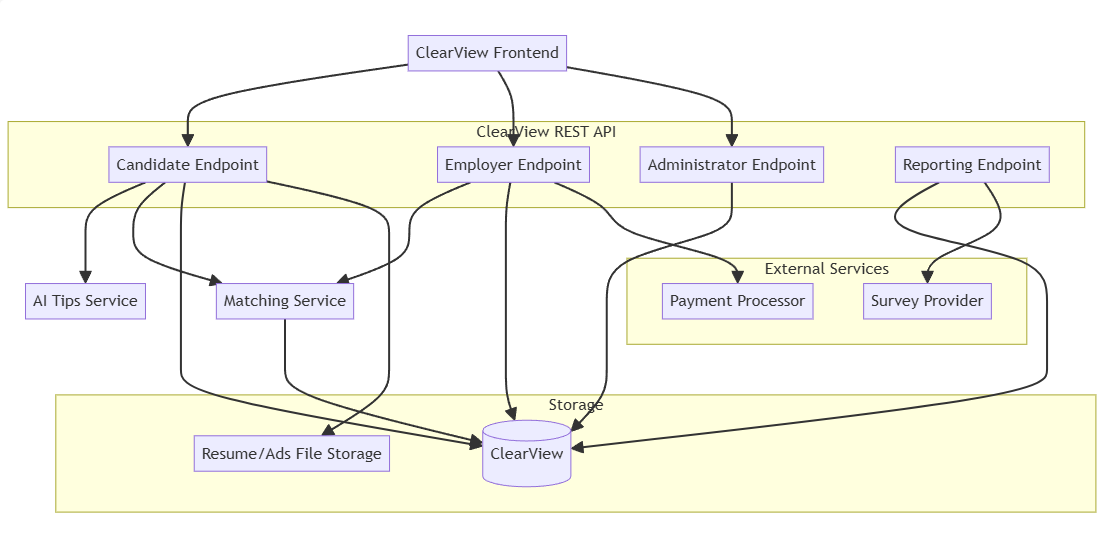
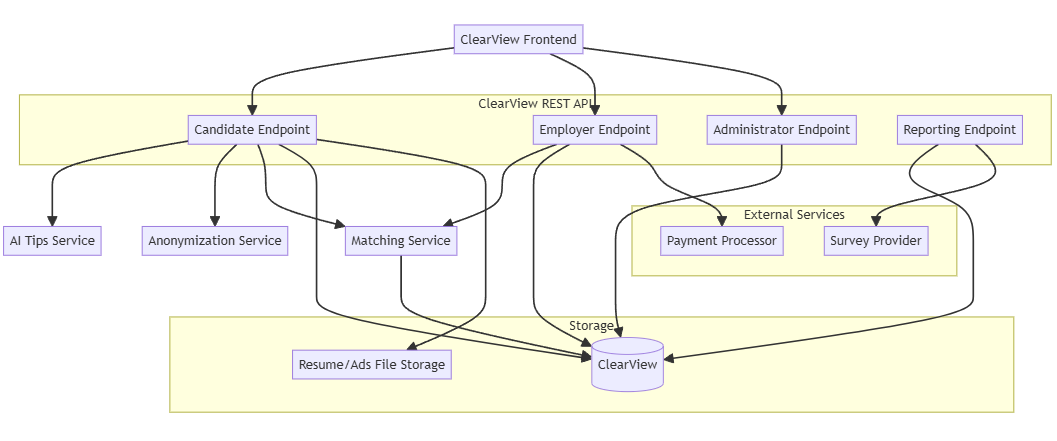
polishing

diff --git a/README.md b/README.md
@@ -4,14 +4,25 @@
 
 ## Equi Hire Architects Team
 
-- Uros Milivojevic
-- Marjan Slavkovski
-- Rastko Djordjevic
-- Goran Zoranovic
+We are a team of software engineers from Microsoft Serbia very passionate about software architecture. We have been practicing architectural katas inside our team inspired by books and videos from Neal Ford and Mark Richards. This time we decided to challenge ourselves and participate in official event.
+
+- [Uros Milivojevic](https://www.linkedin.com/in/urosmilivojevic/)
+- [Marjan Slavkovski](https://www.linkedin.com/in/marjan-s/)
+- [Rastko Djordjevic](https://www.linkedin.com/in/rastko-djordjevic/)
+- [Goran Zoranovic](https://www.linkedin.com/in/goranzoranovic/)
 
 ## Table of contents
-
-TODO:
+- [Company overview](#company-overview)
+- [Requirements](#requirements)
+- [Identifying architecture characteristics](#identifying-architecture-characteristics)
+- [Domain analysis](#domain-analysis)
+- [Architecture](#architecture)
+- [AI Backend](#ai-backend)
+- [Integration](#integration)
+- [REST API](#rest-api)
+- [Storage](#storage)
+- [External services](#external-services)
+- [Additional considerations](#additional-considerations)
 
 ## Company overview
 
@@ -88,6 +99,8 @@ We landed on next domains:
 
 - Reporting Endpoint - REST API component covering methods needed for Monthly reporting.
 
+- Anonymization Service - Service which is creating anonymized version of resume.
+
 - AI Tips Service - Service providing tips for the Candidate resume.
 
 - Matching Service - Service making actual matches based on skills extracted from job ads and resumes.
@@ -102,7 +115,7 @@ files.
 
 ### Architecture Decision Records
 
-Here is the list of all ADRs we made during the process to came up with architecture we designed. Full ADRs can be found through links in the table.
+Here is the condensed list of all ADRs we made during the process to came up with architecture we designed. Full ADRs can be found through links in the table.
 
 
 |ADR #| 	Title| 	Why |	Trade-offs 	| Link |
@@ -114,7 +127,7 @@ Here is the list of all ADRs we made during the process to came up with architec
 |05 |	One relational database and one file-storage DB |	Simplifies maintenance by reducing the number of databases, combining multiple domains into one relational DB.| Resumes need separate file storage.	May compromise modularity and separation of concerns between domains, leading to potential scaling or data management challenges later. However big scalability is not expected so we feel comfortable in making this decision.	|<a href="adr/adr05.md">ADR05</a>|
 |06 |	Split database by schema to decouple domains and improve security|	Improves fault-tolerance and security by separating candidate, employer, matching, and analytics data into schemas. |	More complex database management, requiring careful handling of schema-specific optimizations and inter-schema queries. |	<a href="adr/adr06.md">ADR06</a>|
 |07 |	Analytics as part of regular database| 	Simplifies architecture by embedding analytics within the regular database, avoiding real-time analytics complexity. |	May limit future analytics capabilities if real-time or advanced analytics are needed, and could add extra load to the operational database. However, it should be fairly easy to move this data to separate database if needed.|	<a href="adr/adr07.md">ADR07</a>|
-|08 |	Split AI tips and matching services |	Decouples AI tips and matching services, making the system simpler and easier to scale independently.  |	Requires coordination between services and careful orchestration of dependencies if they need to interact, adding complexity in integration. On the other hand we improve separation of concerns, maintaining and testability.|	<a href="adr/adr08.md">ADR08</a>|
+|08 |	Split Anonymization, AI tips and matching services |	Decouples Anonymization, AI tips and matching services, making the system simpler and easier to scale independently.  |	Requires coordination between services and careful orchestration of dependencies if they need to interact, adding complexity in integration. On the other hand we improve separation of concerns, maintaining and testability.|	<a href="adr/adr08.md">ADR08</a>|
 |09 	|Matching once per Job Ad deadline 	|Matches candidates once per job ad deadline, aligning with employer expectations and simplifying processing pipelines. |	Delays real-time candidate matching and feedback loops, making the system less responsive to changes in candidate or job availability during the job lifecycle. However, it dramatically reduces costs of processing. If needed, processing can be invoked through Matching API on demand.	|<a href="adr/adr09.md">ADR09</a>|
 |10 |	Configurable top N candidates for employers |	Allows employers to see the top N candidates, making "N" configurable, ensuring scalability and reducing DB overload. 	|Complexity in configuring "N" dynamically across jobs; potential risk if "N" is set too high or too low for specific job listings, affecting employer satisfaction.|<a href="adr/adr10.md">ADR10</a>|
 |11 |	Use lightweight authentication (OAuth2, Shiro) |	Implements simple and lightweight authentication to reduce complexity while securing access to services. |	May require upgrades to a more robust solution if security or user management needs increase, adding migration overhead later. 	|<a href="adr/adr11.md">ADR11</a>|
@@ -161,7 +174,47 @@ Sequence diagram:
 
 |ADR #| 	Title| 	Why |	Trade-offs 	| Link |
 |------|----------|-----|--------------|------|
-|08 |	Split AI tips and matching services |	Decouples AI tips and matching services, making the system simpler and easier to scale independently.  |	Requires coordination between services and careful orchestration of dependencies if they need to interact, adding complexity in integration. On the other hand we improve separation of concerns, maintaining and testability.|	<a href="adr/adr08.md">ADR08</a>|
+|08 |	Split Anonymization, AI tips and matching services |	Decouples Anonymization, AI tips and matching services, making the system simpler and easier to scale independently.  |	Requires coordination between services and careful orchestration of dependencies if they need to interact, adding complexity in integration. On the other hand we improve separation of concerns, maintaining and testability.|	<a href="adr/adr08.md">ADR08</a>|
+
+### Anonymization Service
+
+One of the core features of ClearView is its ability to **reduce bias** in the hiring process through the **anonymization of candidate resumes**. This feature ensures that employers focus on the skills and qualifications of candidates rather than on potentially bias-inducing personal information such as names, contact details, gender, or other identifiable attributes. The **Anonymization Service**, powered by **Large Language Models (LLMs)**, is a critical component in achieving this goal, enabling a fairer and more inclusive recruitment process.
+
+#### How the Anonymization Process Works
+
+1. **Candidate Submission**  
+   When a candidate submits their resume to ClearView, the resume typically contains personal and professional information, such as their full name, contact details, education, and work experience. This raw resume, while informative, carries the risk of introducing unconscious bias into the hiring process. 
+
+2. **Anonymization Service Powered by LLMs**  
+   Upon receiving the resume, ClearView’s **Anonymization Service** is automatically triggered. The service, utilizing **Large Language Models (LLMs)**, intelligently analyzes the resume to detect and anonymize sensitive personal information. These advanced models allow the system to:
+   - Identify personal identifiers such as **names**, **contact details**, **gender**, **date of birth**, and **photographs**, even if presented in varied formats or contexts.
+   - Maintain the **semantic integrity** of the resume, ensuring that anonymized resumes still convey the full scope of a candidate’s professional experience and skills.
+   
+   The LLM’s ability to understand context ensures that the anonymization process is thorough and adaptable, handling diverse resume formats and terminology with ease. While the LLM removes personal details, it preserves critical information such as **work experience**, **skills**, **education**, and **certifications**, ensuring that the anonymized resume remains informative.
+
+3. **Compelling Anonymized Resume Creation**  
+   The use of LLMs not only allows for effective anonymization but also enables the creation of a **compelling, professionally formatted anonymized resume**. The LLM enhances the presentation of the anonymized content by:
+   - **Reformatting** the candidate’s experience and skills to emphasize qualifications that are most relevant to the job posting.
+   - Ensuring a **consistent and polished presentation** across all anonymized resumes, so employers receive standardized resumes that focus solely on the candidates' qualifications.
+   - Adapting the text to maintain the **flow and coherence** of the resume, even after personal information has been removed, ensuring that it is easy for employers to read and evaluate.
+
+4. **Integration with Matching Data**  
+   After the anonymization process is complete, the resume is presented to employers alongside the **matching data** generated by ClearView’s skill-matching service. This includes a match score based on the candidate’s qualifications and how well they align with the job’s requirements. Employers, therefore, see only anonymized resumes and objective data, enabling them to make informed decisions without bias.
+
+#### Importance of LLM-Based Anonymization in Reducing Bias
+
+Using **LLM-powered anonymization** significantly enhances ClearView’s ability to reduce bias by:
+- **Contextual Understanding**: LLMs are capable of understanding the context in which personal details are presented, ensuring that all identifiable information is accurately removed while retaining important professional details.
+- **Eliminating Bias**: By stripping away personal identifiers, ClearView ensures that employers focus on **what matters most**—the candidate’s skills, qualifications, and experience—without being influenced by irrelevant details like name, gender, or ethnicity.
+- **Consistency Across Resumes**: LLMs enable the creation of **standardized anonymized resumes**, giving all candidates an equal opportunity to present themselves in the best possible light without the risk of bias creeping into the review process.
+
+<img src="diagrams/anonimization_service_process.png">
+
+
+#### Conclusion
+
+In ClearView, the **Anonymization Service**, powered by **LLMs**, plays a pivotal role in ensuring **fair and unbiased hiring practices**. By utilizing the capabilities of Large Language Models to intelligently anonymize resumes and generate a consistent, professional presentation, ClearView enables employers to make objective, data-driven decisions. The combination of LLM-powered anonymization and skill-matching data ensures that every candidate is evaluated based on their qualifications alone, fostering a more diverse and inclusive recruitment process.
+
 
 ### Matching service
 
@@ -451,6 +504,56 @@ Response: (200 OK)
   }
 ```
 
+Anonymized Resume Management
+Upload Anonimized Resume
+- POST /api/candidates/anonymized
+```
+Headers:
+Authorization: Bearer {token}
+Content-Type: multipart/form-data
+Request Body:
+- file: (binary)
+Response: (201 Created)
+```
+``` json
+  {
+    "id": "string",
+    "fileName": "string",
+    "uploadDate": "string (ISO 8601 date)",
+    "fileSize": "number"
+  }
+```
+
+Get Anonimized Resume
+- GET /api/candidates/anonimized
+```
+Headers:
+Authorization: Bearer {token}
+Response: (200 OK)
+```
+``` json
+  {
+    "id": "string",
+    "fileName": "string",
+    "uploadDate": "string (ISO 8601 date)",
+    "fileSize": "number",
+    "downloadUrl": "string"
+  }
+```
+
+Delete Anonimized Resume
+- DELETE /api/candidates/anonymized
+```
+Headers:
+Authorization: Bearer {token}
+Response: (200 OK)
+```
+``` json
+  {
+    "message": "Resume deleted successfully"
+  }
+```
+
 AI Tips
 Get Resume Tips
 - GET /api/candidates/resume/tips
@@ -646,6 +749,7 @@ POST /employer: Register a new employer and autofill company details.
 GET /employer/{id}: Retrieve employer details, including job ads and payment history.
 PUT /employer/{id}: Update employer information.
 DELETE /employer/{id}: Deactivate employer profile.
+GET /employer/{employer_id}/{candidate_id}/anonimized : Download anonymized candidate resume.
 GET /employer/{employer_id}/candidates/{candidate_id}/resume: Download unlocked candidate resume.
 ```
 - Job Ads:
@@ -856,9 +960,39 @@ This would allow us to keep related data in single schema and help us in future 
 |------|----------|-----|--------------|-----|	
 |06 |	Split database by schema to decouple domains and improve security|	Improves fault-tolerance and security by separating candidate, employer, matching, and analytics data into schemas. |	More complex database management, requiring careful handling of schema-specific optimizations and inter-schema queries. |	<a href="adr/adr06.md">ADR06</a>|
 
-### File Storage TODO!
+### File Storage
+
+ClearView is designed to reduce bias in the job application process by anonymizing resumes and matching candidates to job advertisements based on skills. One of the critical components of this system is the **file storage** mechanism, which is responsible for securely managing and storing candidate resumes and other file-based data.
+
+#### Why File Storage is Essential
+
+1. **Handling Unstructured Data**  
+   Resumes are a form of **unstructured data** that can come in a variety of formats, including PDFs, Word documents, and images. These files are an essential part of the candidate’s profile, as they contain detailed information about work experience, education, and skills. Storing and managing these files effectively is crucial for ensuring that ClearView can access and process candidate information accurately.
+
+2. **Resume Anonymization**  
+   A key feature of ClearView is the **anonymization** of resumes to eliminate potential bias in the hiring process. To achieve this, the system must be able to securely store both the original and anonymized versions of candidate resumes. File storage allows the system to manage different versions of these documents efficiently, ensuring that sensitive information is protected while providing anonymized versions for employer reviews.
+
+3. **Scalability and Efficiency**  
+   As the number of candidates and employers using ClearView grows, so does the volume of resumes and file-based data. A robust file storage system ensures that ClearView can **scale** to handle large amounts of data without performance degradation. Modern file storage solutions, such as **cloud-based storage** (e.g., AWS S3), offer flexible scalability, allowing ClearView to manage increasing data volumes while optimizing costs.
+
+4. **Security and Compliance**  
+   File storage is critical for maintaining the **security** of candidate information. Resumes often contain sensitive personal data, such as names, contact information, and employment history. A secure file storage system must provide encryption both at rest and in transit, ensuring that data is protected from unauthorized access. Additionally, file storage helps ClearView meet **compliance requirements** related to data protection laws, such as GDPR, by managing access controls and data retention policies.
+
+5. **Cost-Effectiveness**  
+   Managing file storage in a cost-effective manner is important to keep the system sustainable as it grows. Cloud-based storage solutions allow ClearView to pay for only the storage capacity it uses, offering **cost-efficiency** while ensuring high availability and durability of the data. By leveraging these storage solutions, ClearView minimizes the need for expensive on-premise infrastructure, reducing operational overhead.
+
+#### Conclusion
+
+In ClearView, file storage plays a pivotal role in securely managing candidate resumes, enabling resume anonymization, and ensuring scalability. It supports the system’s core mission of reducing bias in hiring by handling sensitive data efficiently and securely. As the system continues to evolve, having a robust and flexible file storage solution ensures that ClearView can grow while maintaining the integrity, security, and availability of its most important data: the candidate resumes.
+
+|ADR #| 	Title| 	Why |	Trade-offs 	| Link |
+|------|----------|-----|--------------|-----|
+|05 |	One relational database and one file-storage DB |	Simplifies maintenance by reducing the number of databases, combining multiple domains into one relational DB.| Resumes need separate file storage.	May compromise modularity and separation of concerns between domains, leading to potential scaling or data management challenges later. However big scalability is not expected so we feel comfortable in making this decision.	|<a href="adr/adr05.md">ADR05</a>|
 
 ## External services
+
+We have chosen to use **external services** for both **payment processing** and **survey management** in ClearView to reduce complexity and operational overhead. These services are well-established, secure, and scalable, allowing us to integrate reliable, out-of-the-box solutions that meet our current needs. By outsourcing these functionalities to trusted providers, we avoid the costs and time associated with building and maintaining custom systems. This decision allows ClearView to focus on its core functionalities, while ensuring that payments and surveys are handled efficiently and securely by specialized services.
+
 
 |ADR #| 	Title| 	Why |	Trade-offs 	| Link |
 |------|----------|-----|--------------|-----|		
@@ -866,8 +1000,15 @@ This would allow us to keep related data in single schema and help us in future 
 
 ## Additional considerations
 ### Evolvability
+
+While there is potential to add AI-driven features in the future, the exact nature and scope of these features are currently unclear, making it difficult to design a fully adaptable plugin system at this stage. However, by splitting concerns and decoupling core services—such as AI tips, anonymization, and matching—we are laying the groundwork for easier integration of new features when the need arises. This modular approach ensures that we can evolve and extend the system with minimal disruption, allowing us to introduce advanced capabilities as requirements become clearer.
+
 ### Scalability
+
+While ClearView does not expect to handle more than **5,000 active candidates** simultaneously (assumption confirmed by subject expert) in the near future, the current architecture is designed to be **scalable** enough to accommodate larger volumes of requests if necessary. By **separating the REST API from the backend services**, we have ensured that the system can scale flexibly based on demand. This separation allows us to independently scale critical components, such as the API layer or individual services like matching and anonymization, ensuring that performance remains consistent even as the user base grows.
+
 ### Business model (Premium)
-....
-## Appendix (additional materials, investigated options etc.)
+
+We are considering introducing a **Premium account** option for employers, which would unlock additional **AI-powered features** to enhance the hiring process. One such feature could be the use of **LLM-based matching** instead of the default **Cosine Similarity**. LLM matching, powered by advanced language models, could provide employers with **higher-quality candidate matches** by understanding the deeper context of job descriptions and resumes. However, running LLMs for matching is significantly more **costly** compared to Cosine Similarity, which is why we are exploring offering it as part of a premium service tier. This allows us to deliver enhanced functionality to employers who need it while keeping overall costs manageable for the system.
+
 

diff --git a/adr/adr08.md b/adr/adr08.md
@@ -1,25 +1,26 @@
-### ADR 08: Split AI Tips and Matching Services
+### ADR 08: Split AI Tips, Anonymization, and Matching Services
 
-- **Title**: Split AI tips and matching services
+- **Title**: Split AI tips, Anonymization, and Matching services
 - **Status**: Accepted
 - **Context**:  
-  ClearView’s system needs to provide two key functionalities: **AI-driven tips** to help candidates improve their resumes and applications, and **skill matching services** to match candidates with job postings based on their skills. Initially, these functionalities could be tightly coupled within the same service. However, to simplify the architecture and improve scalability, the decision has been made to decouple these services, allowing them to operate independently. This separation ensures that the **AI tips service** and the **matching service** can be scaled, maintained, and tested independently, reducing the risk of interference between the two functionalities.
+  ClearView’s system provides several key functionalities: **AI-driven tips** to help candidates improve their resumes and applications, **anonymization** to remove bias from resumes, and **skill matching services** to match candidates with job postings based on their skills. Initially, these functionalities could be tightly coupled within the same service. However, to simplify the architecture and improve scalability, the decision has been made to decouple these services, allowing them to operate independently. This separation ensures that the **AI tips service**, **anonymization service**, and the **matching service** can be scaled, maintained, and tested independently, reducing the risk of interference between these functionalities.
 
 - **Decision**:  
-  The **AI tips** service and the **matching service** will be split into two independent services:
+  The **AI tips**, **anonymization**, and **matching services** will be split into three independent services:
   1. **AI Tips Service**: Responsible for generating candidate-specific tips and suggestions based on the content of their resumes and job applications. This service leverages AI models to analyze resumes and provide feedback on how candidates can improve their profiles to better match job descriptions.
-  2. **Matching Service**: Responsible for matching candidates to job postings based on their skills and the job requirements. This service uses algorithms like cosine similarity or LLM-based models to match skills between candidates and job ads, returning a match score.
+  2. **Anonymization Service**: Responsible for removing personal and bias-inducing details from candidate resumes, using LLMs to intelligently anonymize the data while maintaining a compelling, coherent presentation. This service ensures that employers receive only anonymized resumes.
+  3. **Matching Service**: Responsible for matching candidates to job postings based on their skills and the job requirements. This service uses algorithms like cosine similarity or LLM-based models to match skills between candidates and job ads, returning a match score.
 
-  Decoupling these services ensures that each can evolve independently and allows for better separation of concerns. The AI tips service focuses on candidate improvement, while the matching service focuses on pairing candidates with jobs.
+  Decoupling these services ensures that each can evolve independently and allows for better separation of concerns. The AI tips service focuses on candidate improvement, the anonymization service ensures bias-free resumes, and the matching service focuses on pairing candidates with jobs.
 
 - **Consequences**:
   - **Positive**:
-    - **Simplified Scaling**: Each service can be scaled independently based on demand. For instance, the AI tips service may require more resources if candidate interaction increases, while the matching service may need to scale separately based on job postings.
-    - **Improved Separation of Concerns**: Decoupling ensures that the functionality of providing AI tips is isolated from the skill-matching logic, improving modularity and separation of concerns.
-    - **Easier Maintenance**: Both services can be maintained and updated independently, reducing the risk of changes in one service affecting the other.
-    - **Better Testability**: Independent services are easier to test in isolation, improving the reliability and robustness of each service without the overhead of testing interactions between two distinct concerns.
+    - **Simplified Scaling**: Each service can be scaled independently based on demand. For instance, the AI tips service may require more resources if candidate interaction increases, while the anonymization service may scale based on resume submissions.
+    - **Improved Separation of Concerns**: Decoupling ensures that the functionality of providing AI tips, anonymizing resumes, and skill matching are isolated from each other, improving modularity and separation of concerns.
+    - **Easier Maintenance**: Each service can be maintained and updated independently, reducing the risk of changes in one service affecting the other services.
+    - **Better Testability**: Independent services are easier to test in isolation, improving the reliability and robustness of each service without the overhead of testing interactions between multiple concerns.
 
   - **Negative**:
-    - **Increased Complexity in Integration**: Splitting the services introduces the need for careful orchestration and communication between them. For example, if AI tips are ever to be used in conjunction with matching logic, the integration could become complex.
-    - **Dependency Management**: If the services need to interact in the future (e.g., using AI tips to influence matching), managing dependencies between the two services will require additional coordination, which could introduce challenges in terms of latency and performance.
-    - **Service Orchestration Overhead**: Running two separate services requires careful orchestration to ensure they operate seamlessly, potentially increasing operational overhead in terms of monitoring, scaling, and error handling.
+    - **Increased Complexity in Integration**: Splitting the services introduces the need for careful orchestration and communication between them. For example, if AI tips, anonymization, and matching logic need to interact, the integration could become complex.
+    - **Dependency Management**: Managing dependencies between the services (e.g., anonymization feeding into matching) will require additional coordination, which could introduce latency and performance challenges.
+    - **Service Orchestration Overhead**: Running three separate services requires careful orchestration to ensure they operate seamlessly, potentially increasing operational overhead in terms of monitoring, scaling, and error handling.
